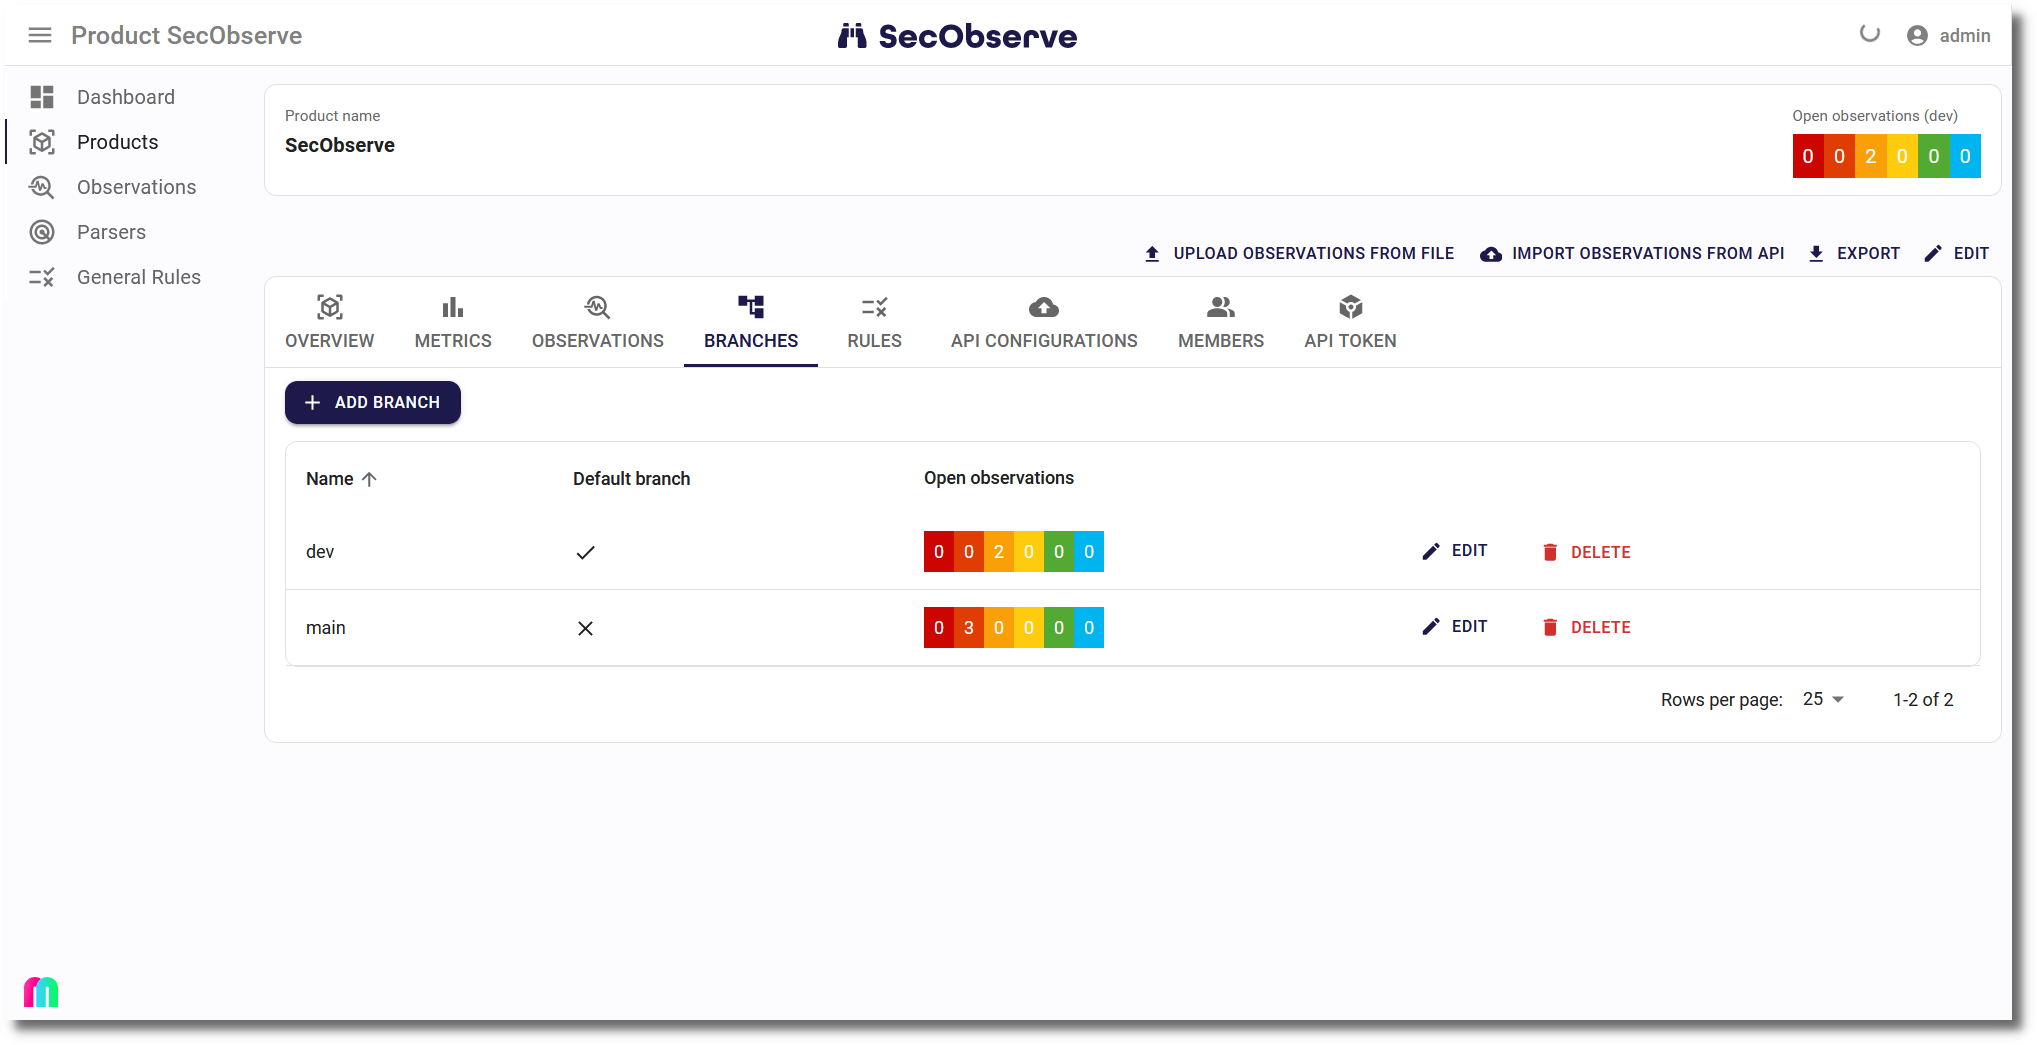
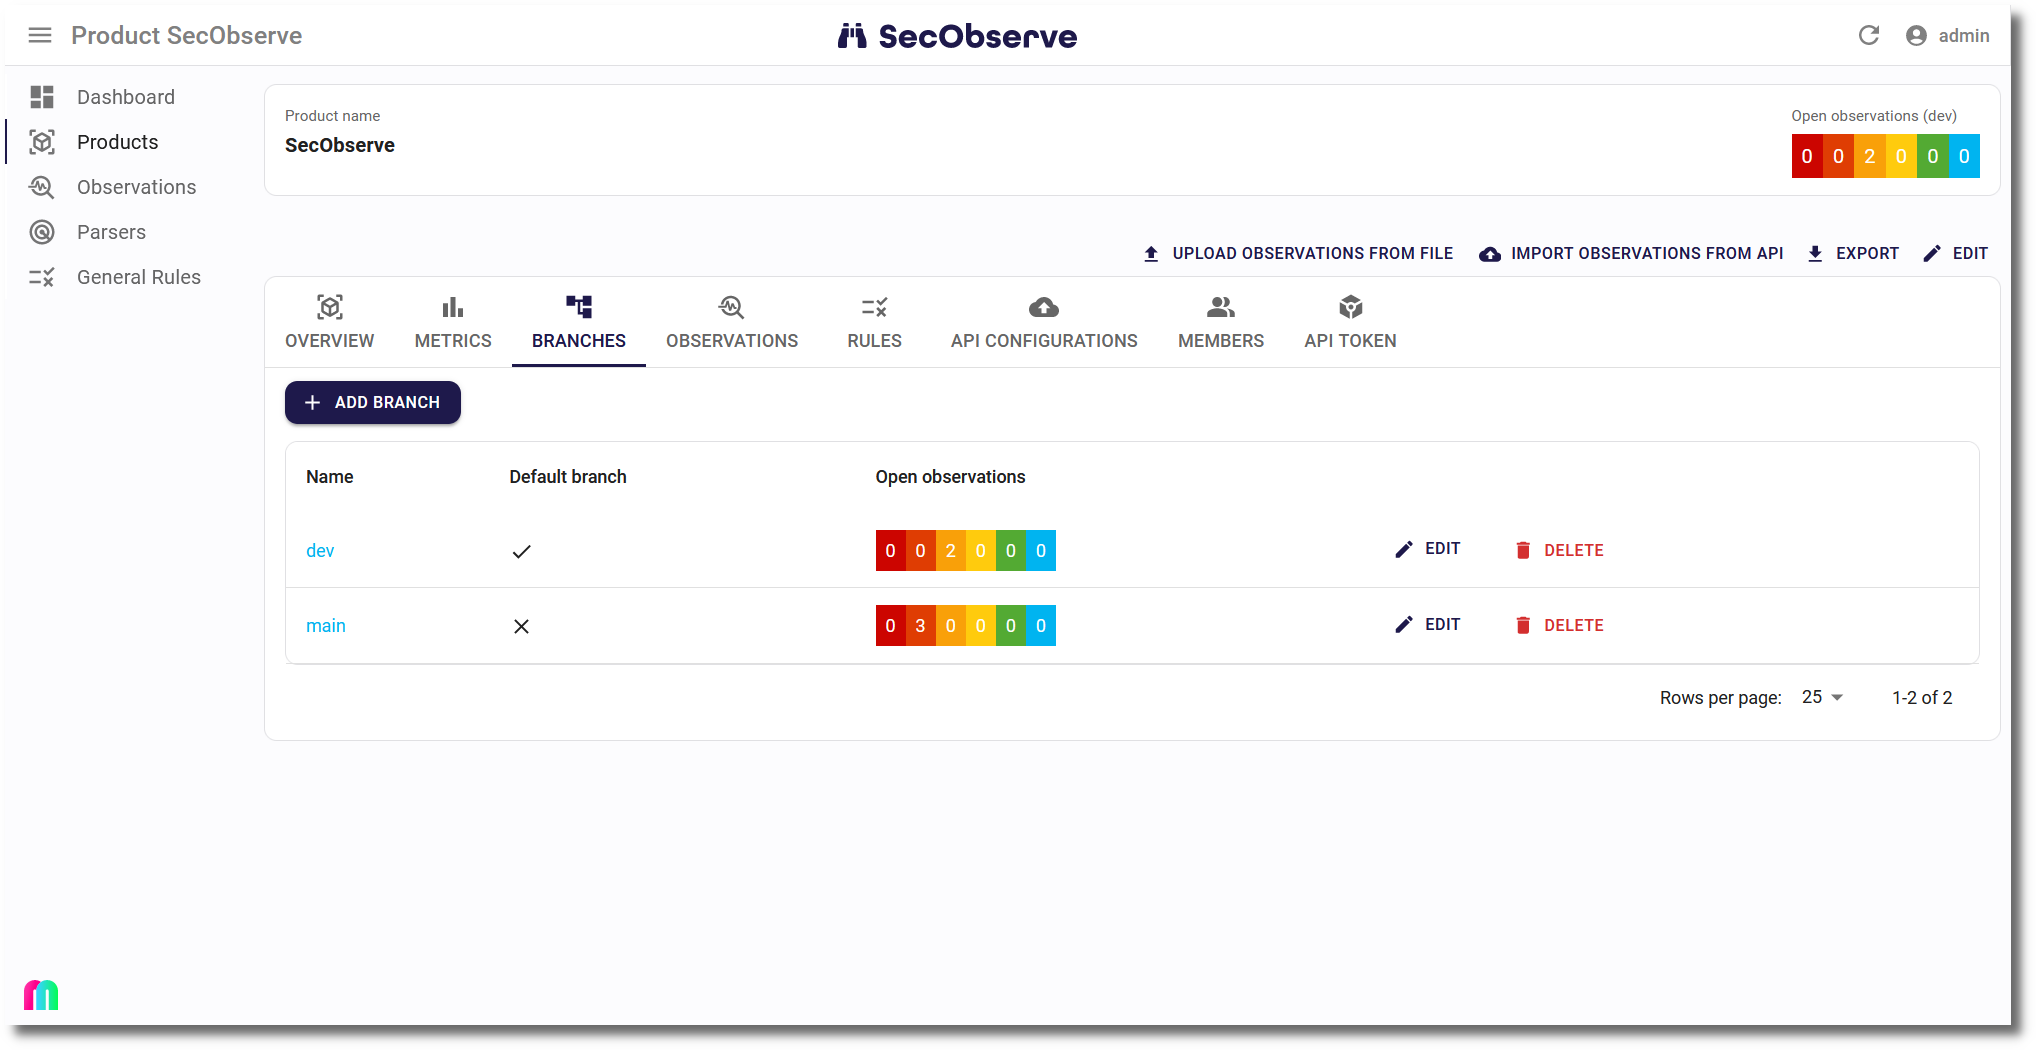
feat: branches - step 4 - ui optimization

diff --git a/frontend/src/core/products/ProductShow.tsx b/frontend/src/core/products/ProductShow.tsx
@@ -20,7 +20,6 @@ import {
     WithRecord,
     useRecordContext,
 } from "react-admin";
-import { useWatch } from "react-hook-form";
 
 import CreateProductApiToken from "../../access_control/product_api_token/ProductApiTokenCreate";
 import ProductApiTokenEmbeddedList from "../../access_control/product_api_token/ProductApiTokenEmbeddedList";
@@ -49,6 +48,7 @@ import ProductRuleCreate from "../../rules/product_rules/ProductRuleCreate";
 import ProductRuleEmbeddedList from "../../rules/product_rules/ProductRuleEmbeddedList";
 import BranchCreate from "../branches/BranchCreate";
 import BranchEmbeddedList from "../branches/BranchEmbeddedList";
+import ShowDefaultBranchObservationsButton from "../branches/ShowDefaultBranchObservationsButton";
 import ObservationCreate from "../observations/ObservationCreate";
 import ObservationsEmbeddedList from "../observations/ObservationEmbeddedList";
 import ProductMemberCreate from "../product_members/ProductMemberCreate";
@@ -208,17 +208,26 @@ const ProductShow = () => {
                                     </Stack>{" "}
                                 </SimpleShowLayout>
                             </Tab>
-                            <Tab label="Observations" path="observations" icon={<observations.icon />}>
-                                {product && product.permissions.includes(PERMISSION_OBSERVATION_CREATE) && (
-                                    <ObservationCreate id={product.id} />
-                                )}
-                                <ObservationsEmbeddedList product={product} />
-                            </Tab>
                             <Tab label="Branches" path="branches" icon={<AccountTreeIcon />}>
                                 {product && product.permissions.includes(PERMISSION_BRANCH_CREATE) && (
                                     <BranchCreate id={product.id} />
                                 )}
                                 <BranchEmbeddedList product={product} />
+                            </Tab>
+                            <Tab label="Observations" path="observations" icon={<observations.icon />}>
+                                <Stack
+                                    direction="row"
+                                    spacing={2}
+                                    sx={{
+                                        alignItems: "center",
+                                    }}
+                                >
+                                    {product && product.permissions.includes(PERMISSION_OBSERVATION_CREATE) && (
+                                        <ObservationCreate id={product.id} />
+                                    )}
+                                    <ShowDefaultBranchObservationsButton product={product} />
+                                </Stack>
+                                <ObservationsEmbeddedList product={product} />
                             </Tab>
                             <Tab label="Rules" path="rules" icon={<general_rules.icon />}>
                                 <Stack

diff --git a/frontend/src/core/branches/BranchEmbeddedList.tsx b/frontend/src/core/branches/BranchEmbeddedList.tsx
@@ -1,16 +1,9 @@
 import { Paper, Stack } from "@mui/material";
-import {
-    BooleanField,
-    Datagrid,
-    ListContextProvider,
-    Pagination,
-    TextField,
-    WithRecord,
-    useListController,
-} from "react-admin";
+import { BooleanField, Datagrid, ListContextProvider, Pagination, WithRecord, useListController } from "react-admin";
 
 import { PERMISSION_BRANCH_DELETE, PERMISSION_BRANCH_EDIT } from "../../access_control/types";
 import ObservationsCountField from "../../commons/custom_fields/ObservationsCountField";
+import TextUrlField from "../../commons/custom_fields/TextUrlField";
 import BranchDelete from "./BranchDelete";
 import BranchEdit from "./BranchEdit";
 
@@ -43,13 +36,22 @@ const BranchEmbeddedList = ({ product }: BranchEmbeddedListProps) => {
         listContext.data = [];
     }
 
+    function get_observations_url(product_id: number, branch_id: number): string {
+        return `#/products/${product_id}/show/observations?displayedFilters=%7B%7D&filter=%7B%22current_status%22%3A%22Open%22%2C%22branch%22%3A${branch_id}%7D&order=ASC&sort=current_severity`;
+    }
+
     return (
         <ListContextProvider value={listContext}>
             <div style={{ width: "100%" }}>
                 <Paper>
                     <Datagrid size="medium" sx={{ width: "100%" }} bulkActionButtons={false}>
-                        <TextField source="name" />
-                        <BooleanField source="is_default_branch" label="Default branch" />
+                        <WithRecord
+                            label="Name"
+                            render={(branch) => (
+                                <TextUrlField text={branch.name} url={get_observations_url(product.id, branch.id)} />
+                            )}
+                        />
+                        <BooleanField source="is_default_branch" label="Default branch" sortable={false} />
                         <ObservationsCountField withLabel={false} />
                         <WithRecord
                             render={(branch) => (

diff --git a/frontend/src/commons/custom_fields/TextUrlField.tsx b/frontend/src/commons/custom_fields/TextUrlField.tsx
@@ -18,6 +18,20 @@ function is_valid_url(urlString: string): boolean {
     }
 }
 
+function is_valid_relative_url(urlString: string): boolean {
+    const RELATIVE_PATTERN = /^#\/.*$/gi;
+
+    try {
+        return Boolean(urlString.match(RELATIVE_PATTERN));
+    } catch (e) {
+        return false;
+    }
+}
+
+function is_invalid_url(urlString: string): boolean {
+    return !is_valid_url(urlString) && !is_valid_relative_url(urlString);
+}
+
 const TextUrlField = (props: TextUrlFieldProps) => {
     const { classes } = useStyles();
 
@@ -40,7 +54,21 @@ const TextUrlField = (props: TextUrlFieldProps) => {
                     <LaunchIcon sx={{ fontSize: "0.8rem" }} />
                 </a>
             )}
-            {!is_valid_url(props.url) && (
+            {is_valid_relative_url(props.url) && (
+                <a
+                    href={props.url} // nosemgrep: typescript.react.security.audit.react-href-var.react-href-var
+                    // nosemgrep because is_valid_url() sanitizes the url
+                    className={classes.link}
+                    style={{
+                        fontSize: "0.875rem",
+                        fontFamily: "Roboto",
+                        lineHeight: 1.43,
+                    }}
+                >
+                    {props.text}
+                </a>
+            )}
+            {is_invalid_url(props.url) && (
                 <span
                     style={{
                         fontSize: "0.875rem",
@@ -55,6 +83,6 @@ const TextUrlField = (props: TextUrlFieldProps) => {
     );
 };
 
-TextUrlField.defaultProps = { label: "" };
+TextUrlField.defaultProps = { label: "Name" };
 
 export default TextUrlField;

diff --git a/frontend/src/core/observations/ObservationEdit.tsx b/frontend/src/core/observations/ObservationEdit.tsx
@@ -7,12 +7,18 @@ import {
     SaveButton,
     SimpleForm,
     Toolbar,
+    WithRecord,
     required,
     useRecordContext,
 } from "react-admin";
 
 import { PERMISSION_OBSERVATION_DELETE } from "../../access_control/types";
-import { AutocompleteInputMedium, SelectInputWide, TextInputWide } from "../../commons/layout/themes";
+import {
+    AutocompleteInputMedium,
+    AutocompleteInputWide,
+    SelectInputWide,
+    TextInputWide,
+} from "../../commons/layout/themes";
 import { OBSERVATION_SEVERITY_CHOICES, OBSERVATION_STATUS_CHOICES } from "../../core/types";
 
 const CustomToolbar = () => {
@@ -61,6 +67,18 @@ const ObservationEdit = () => {
                     <SelectInputWide optionText="name" disabled={true} />
                 </ReferenceInput>
                 <Typography variant="h6">Observation</Typography>
+                <WithRecord
+                    render={(branch) => (
+                        <ReferenceInput
+                            source="branch"
+                            reference="branches"
+                            sort={{ field: "name", order: "ASC" }}
+                            filter={{ product: branch.product_data.id }}
+                        >
+                            <AutocompleteInputWide optionText="name" />
+                        </ReferenceInput>
+                    )}
+                />
                 <TextInputWide autoFocus source="title" validate={requiredValidate} />
                 <AutocompleteInputMedium
                     source="parser_severity"

diff --git a/frontend/src/core/branches/ShowDefaultBranchObservationsButton.tsx b/frontend/src/core/branches/ShowDefaultBranchObservationsButton.tsx
@@ -1,0 +1,41 @@
+import { Button } from "@mui/material";
+import * as React from "react";
+import { Identifier } from "react-admin";
+import { useNavigate } from "react-router";
+
+import observations from "../../core/observations";
+import { Product } from "../../core/types";
+
+export type ShowDefaultBranchObservationsButtonProps = {
+    product: Product;
+};
+
+const ShowDefaultBranchObservationsButton = ({ product }: ShowDefaultBranchObservationsButtonProps) => {
+    const navigate = useNavigate();
+
+    function get_observations_url(product_id: Identifier, branch_id: Identifier): string {
+        return `?displayedFilters=%7B%7D&filter=%7B%22current_status%22%3A%22Open%22%2C%22branch%22%3A${branch_id}%7D&order=ASC&sort=current_severity`;
+    }
+
+    const navigateToContacts = () => {
+        // 👇 navigate to /contacts
+        navigate(get_observations_url(product.id, product.repository_default_branch));
+    };
+
+    return (
+        <React.Fragment>
+            {product.repository_default_branch && (
+                <Button
+                    variant="contained"
+                    onClick={navigateToContacts}
+                    sx={{ mr: "7px", width: "fit-content", fontSize: "0.8125rem" }}
+                    startIcon={<observations.icon />}
+                >
+                    Show default branch observations
+                </Button>
+            )}
+        </React.Fragment>
+    );
+};
+
+export default ShowDefaultBranchObservationsButton;

diff --git a/frontend/src/core/observations/ObservationCreate.tsx b/frontend/src/core/observations/ObservationCreate.tsx
@@ -15,7 +15,12 @@ import {
     useRefresh,
 } from "react-admin";
 
-import { AutocompleteInputMedium, SelectInputWide, TextInputWide } from "../../commons/layout/themes";
+import {
+    AutocompleteInputMedium,
+    AutocompleteInputWide,
+    SelectInputWide,
+    TextInputWide,
+} from "../../commons/layout/themes";
 import { OBSERVATION_SEVERITY_CHOICES, OBSERVATION_STATUS_CHOICES, OBSERVATION_STATUS_OPEN } from "../../core/types";
 
 export type ObservationCreateProps = {
@@ -101,6 +106,14 @@ const ObservationCreate = ({ id }: ObservationCreateProps) => {
                                 <SelectInputWide optionText="name" defaultValue={id} disabled={true} />
                             </ReferenceInput>
                             <Typography variant="h6">Observation</Typography>
+                            <ReferenceInput
+                                source="branch"
+                                reference="branches"
+                                sort={{ field: "name", order: "ASC" }}
+                                filter={{ product: id }}
+                            >
+                                <AutocompleteInputWide optionText="name" />
+                            </ReferenceInput>
                             <TextInputWide autoFocus source="title" validate={requiredValidate} />
                             <AutocompleteInputMedium
                                 source="parser_severity"

diff --git a/backend/application/core/api/serializers.py b/backend/application/core/api/serializers.py
@@ -375,6 +375,14 @@ class ObservationUpdateSerializer(ModelSerializer):
         attrs["import_last_seen"] = make_aware(datetime.now())
         return super().validate(attrs)
 
+    def validate_branch(self, branch: Branch) -> Branch:
+        if branch and branch.product != self.instance.product:
+            raise ValidationError(
+                "Branch does not belong to the same product as the observation"
+            )
+
+        return branch
+
     def update(self, instance: Observation, validated_data: dict):
         actual_severity = instance.current_severity
         actual_status = instance.current_status
@@ -417,6 +425,7 @@ class ObservationUpdateSerializer(ModelSerializer):
     class Meta:
         model = Observation
         fields = [
+            "branch",
             "title",
             "description",
             "recommendation",
@@ -437,6 +446,13 @@ class ObservationCreateSerializer(ModelSerializer):
         attrs["parser"] = Parser.objects.get(type=Parser.TYPE_MANUAL)
         attrs["scanner"] = Parser.TYPE_MANUAL
         attrs["import_last_seen"] = make_aware(datetime.now())
+
+        if attrs.get("branch"):
+            if attrs["branch"].product != attrs["product"]:
+                raise ValidationError(
+                    "Branch does not belong to the same product as the observation"
+                )
+
         return super().validate(attrs)
 
     def create(self, validated_data):
@@ -462,6 +478,7 @@ class ObservationCreateSerializer(ModelSerializer):
         model = Observation
         fields = [
             "product",
+            "branch",
             "title",
             "description",
             "recommendation",

diff --git a/docs/usage/branches.md b/docs/usage/branches.md
@@ -8,10 +8,16 @@ A product has a list of branches. They can either be created manually from the *
 
 The list of branches shows the severities of open observations for each branch.
 
+Clicking on the name of a branch brings up the list of open observations for that branch.
+
 ## Repository default branch
 
 The **Repository default branch** should always be set, when branches are used in the observations. The metrics on the dashboard and on the **Metrics** tab as well as the severites in the header when showing a product are calculated using the observations where the default branch is set.
 
-The repository default branch can be set manually while editing a product. If it is not set manually, it will be set automatically after importing observations with the branch name used for the import.
+The repository default branch can be set manually while editing a product. If it is not set manually, it will be set automatically with the first branch that is created, either after importing observations with a branch name or by manually creating a branch.
 
 ![Branches in the product](../assets/images/screenshot_product_default_branch.png)
+
+When the repository default branch is set, the Observations tab shows a button to show all open observations for the default branch.
+
+![Observations default branch button](../assets/images/screenshot_observations_default_branch.png)
